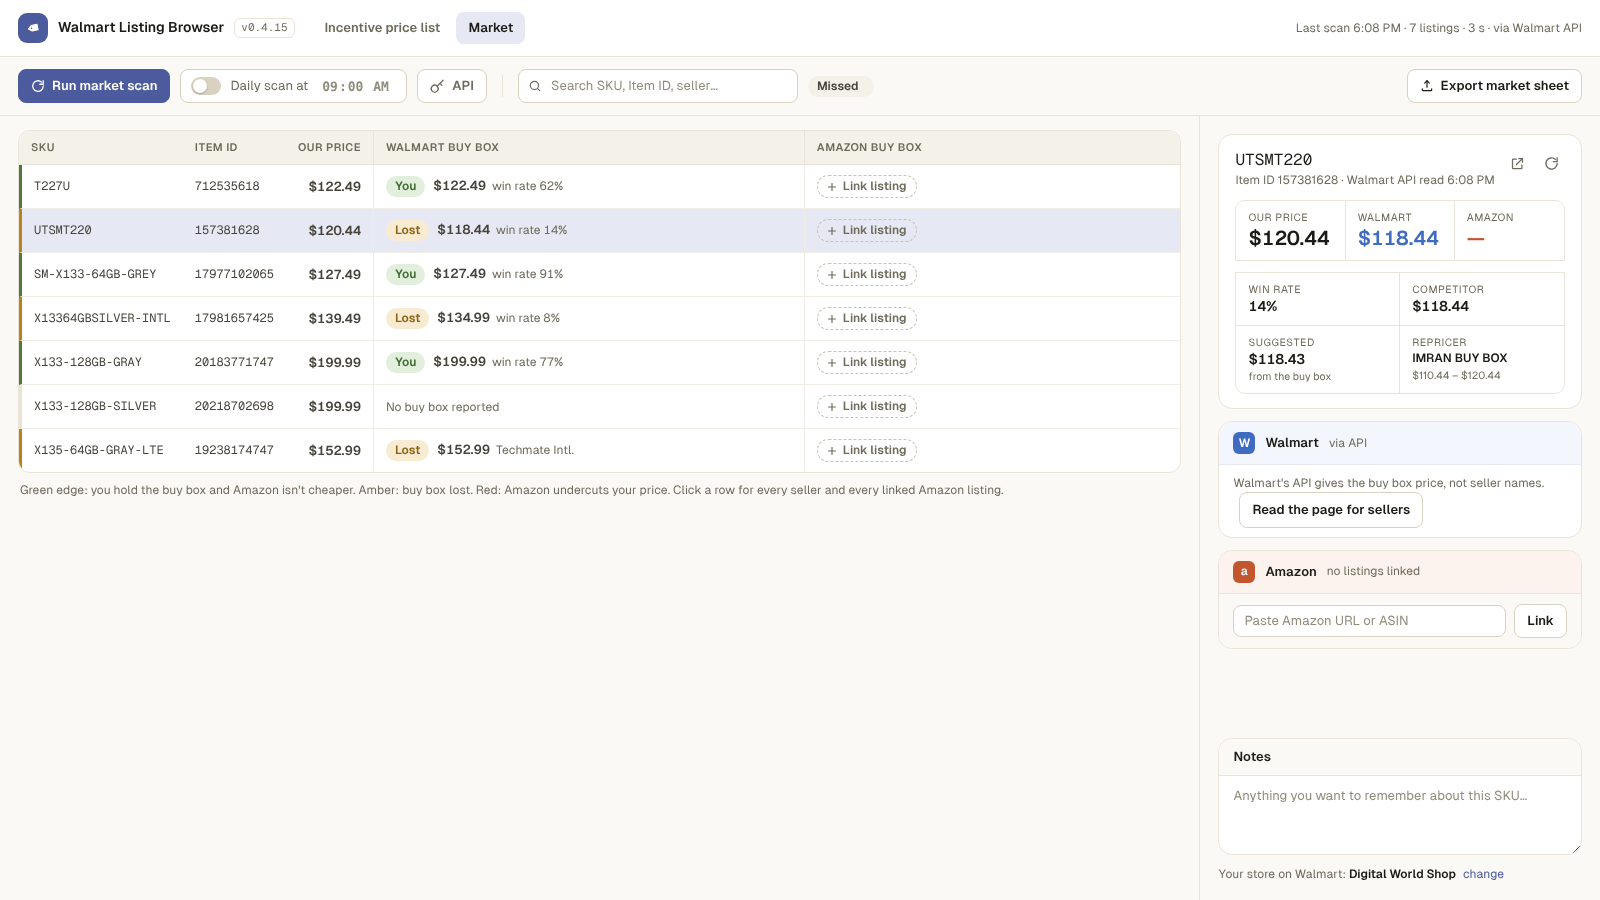
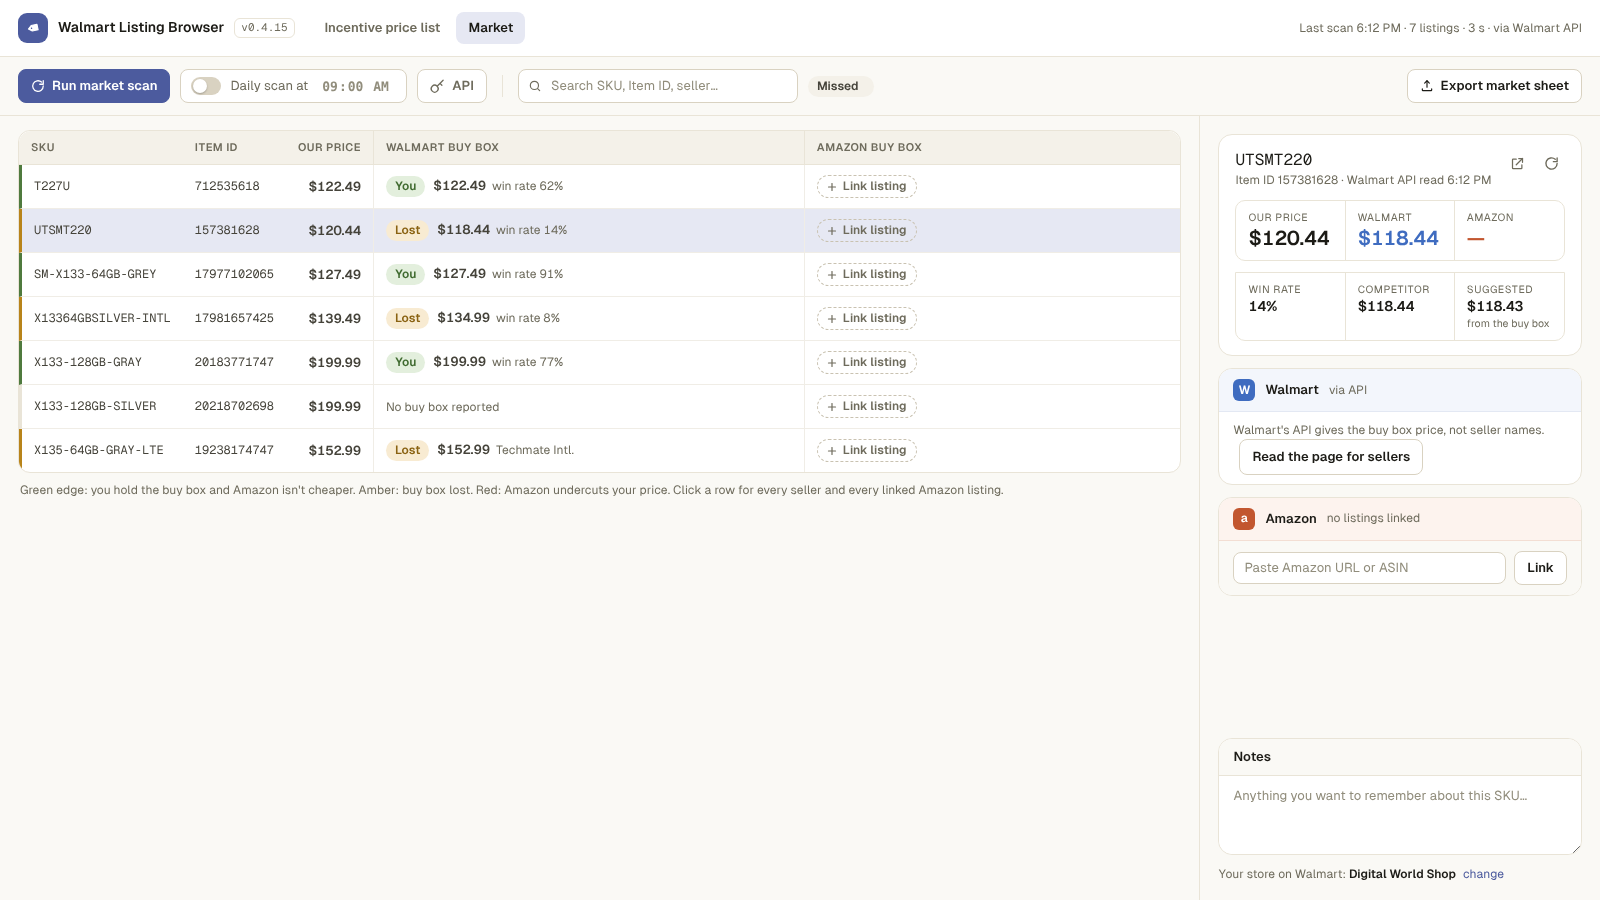
Market tab: plain API keys dialog, buy box data only
The keys dialog is now a small form — Client ID, Client Secret with a
show/hide toggle, a sandbox checkbox, Test / Cancel / Save and a Remove
keys link — with a Connected / Not connected mark in its corner. The
repricer strategy and min–max window no longer show in the panel or the
market export; the API is used for buy box information only (buy box
price, win rate, competitor and suggested prices).

Claude-Session: https://claude.ai/code/session_019Yg2gTStBBCpkj8D7JbpwL

Changed region(s): [[0.75, 0.3111, 0.9688, 0.7156], [0.9062, 0.1867, 0.9375, 0.2178], [0.8125, 0.0311, 0.8438, 0.0622]]

diff --git a/app.css b/app.css
@@ -648,67 +648,45 @@ button.mini { padding: 6px 11px; font-size: 12.5px; min-height: 32px; }
 .m-toolbar #mApiBtn { position: relative; color: #6E6B5C; }
 .m-toolbar #mApiBtn.attention::after { content: ""; position: absolute; top: 6px; right: 6px; width: 6px; height: 6px; border-radius: 50%; background: #B8841A; }
 /* Walmart's own numbers under the three big stats */
-.m-stats.api { margin-top: -1px; grid-template-columns: repeat(2, minmax(0, 1fr)); border-top-left-radius: 0; border-top-right-radius: 0; }
-.m-stats.api > div:nth-child(2n) { border-right: 0; }
-.m-stats.api > div:nth-child(n+3) { border-top: 1px solid #E9E4D7; }
-.m-id .m-stats:not(.api):has(+ .m-stats.api) { border-bottom-left-radius: 0; border-bottom-right-radius: 0; }
+.m-stats.api { margin-top: -1px; grid-template-columns: repeat(3, minmax(0, 1fr)); border-top-left-radius: 0; border-top-right-radius: 0; }
 .m-stats.api b { font-size: 14px; }
 .m-stats.api b.txt { font-size: 12px; line-height: 1.3; white-space: normal; word-break: break-word; }
 .m-stats.api i { font-style: normal; font-size: 10.5px; color: #6E6B5C; white-space: nowrap; overflow: hidden; text-overflow: ellipsis; }
 .m-seller .mini { padding: 3px 9px; min-height: 0; font-size: 11.5px; margin-left: 6px; }
 .m-seller.m-note { flex-wrap: wrap; line-height: 1.5; }
 
-/* API keys dialog */
-.modal.api-card { width: min(620px, 94vw); padding: 0; overflow: hidden; border-radius: 16px; }
-.api-head { display: flex; align-items: center; gap: 14px; padding: 20px 24px 18px; border-bottom: 1px solid #E9E4D7; background: linear-gradient(180deg, #F7F6F1 0%, #FFFFFF 100%); }
-.api-mark { width: 40px; height: 40px; border-radius: 12px; background: #4C5B9E; color: #fff; display: inline-flex; align-items: center; justify-content: center; flex: none; box-shadow: 0 6px 16px rgba(76, 91, 158, .25); }
-.api-head-text { flex: 1; min-width: 0; }
-.api-head h2 { margin: 0; font-size: 17px; line-height: 1.2; }
-.api-sub { font-size: 12.5px; color: #6E6B5C; margin-top: 3px; }
-.api-state { flex: none; display: inline-flex; align-items: center; gap: 6px; padding: 4px 10px; border-radius: 999px; font-size: 11px; font-weight: 600; white-space: nowrap; }
+/* API keys dialog — deliberately plain */
+.modal.api-card { width: min(440px, 94vw); padding: 22px 24px; border-radius: 14px; }
+.api-head { display: flex; align-items: center; justify-content: space-between; gap: 12px; }
+.api-head h2 { margin: 0; font-size: 16px; }
+.api-state { font-size: 11.5px; font-weight: 600; white-space: nowrap; display: inline-flex; align-items: center; gap: 6px; }
 .api-state::before { content: ""; width: 7px; height: 7px; border-radius: 50%; background: currentColor; }
-.api-state.on { background: #E3EFDD; color: #3F6A2F; }
-.api-state.off { background: #F4F1E9; color: #6E6B5C; }
-.api-body { padding: 18px 24px 2px; }
-.api-perks { display: grid; grid-template-columns: repeat(3, minmax(0, 1fr)); gap: 10px; }
-.api-perk { display: flex; gap: 9px; align-items: flex-start; padding: 10px 11px; border: 1px solid #E9E4D7; border-radius: 10px; background: #FAF9F5; min-width: 0; }
-.api-perk svg { flex: none; color: #4C5B9E; margin-top: 1px; }
-.api-perk b { display: block; font-size: 12px; color: #1C1B16; line-height: 1.3; }
-.api-perk span { display: block; font-size: 11px; color: #6E6B5C; margin-top: 2px; line-height: 1.35; }
-.api-msg { margin: 14px 0 0; padding: 9px 12px; border-radius: 8px; font-size: 12.5px; line-height: 1.45; background: #E6E8F3; color: #3D4A85; }
+.api-state.on { color: #3F6A2F; }
+.api-state.off { color: #918D7C; }
+.api-sub { margin: 6px 0 16px; font-size: 12.5px; color: #6E6B5C; line-height: 1.5; }
+.api-sub .linkish { font-size: 12.5px; }
+.api-msg { margin: 0 0 14px; padding: 8px 11px; border-radius: 8px; font-size: 12.5px; line-height: 1.45; background: #E6E8F3; color: #3D4A85; }
 .api-msg.error { background: #FBE8E5; color: #BB3B2E; }
-.api-form { display: grid; grid-template-columns: 1fr 1fr; gap: 14px; margin-top: 18px; }
-.api-field { display: flex; flex-direction: column; gap: 6px; min-width: 0; }
-.api-field.wide { grid-column: 1 / -1; }
-.api-field label { font-size: 11px; font-weight: 600; text-transform: uppercase; letter-spacing: .05em; color: #6E6B5C; }
+.api-field { display: block; margin-bottom: 12px; }
+.api-field > span:first-child { display: block; font-size: 12px; font-weight: 600; color: #45433A; margin-bottom: 5px; }
 .api-field input[type="text"], .api-field input[type="password"] {
   width: 100%; padding: 9px 11px; border: 1px solid #D9D2C1; border-radius: 8px;
-  font-family: "Geist Mono", "JetBrains Mono", Consolas, monospace; font-size: 12.5px;
-  background: #fff; color: #1C1B16; transition: border-color .12s, box-shadow .12s;
+  font-family: "Geist Mono", "JetBrains Mono", Consolas, monospace; font-size: 12.5px; background: #fff; color: #1C1B16;
 }
 .api-field input::placeholder { color: #918D7C; font-family: "Geist", "Inter", system-ui, sans-serif; }
 .api-field input:focus { outline: none; border-color: #4C5B9E; box-shadow: 0 0 0 3px rgba(76, 91, 158, .22); }
-.api-secret { position: relative; }
+.api-secret { position: relative; display: block; }
 .api-secret input { padding-right: 38px; }
 .api-eye { position: absolute; right: 5px; top: 50%; transform: translateY(-50%); border: 0; background: none; color: #918D7C; padding: 5px; border-radius: 6px; cursor: pointer; min-height: 0; display: inline-flex; }
 .api-eye:hover { color: #1C1B16; background: #F4F1E9; }
 .api-eye.on { color: #4C5B9E; }
-.api-env-row { display: flex; align-items: center; gap: 12px; flex-wrap: wrap; }
-.api-seg { display: inline-flex; background: #F4F1E9; border-radius: 9px; padding: 3px; gap: 2px; }
-.api-seg-btn { border: 0; background: transparent; padding: 6px 16px; border-radius: 7px; font: inherit; font-size: 12.5px; font-weight: 600; color: #6E6B5C; cursor: pointer; min-height: 0; }
-.api-seg-btn:hover { color: #1C1B16; background: transparent; }
-.api-seg-btn.active { background: #fff; color: #1C1B16; box-shadow: 0 1px 2px rgba(0, 0, 0, .1); }
-.api-env-note { font-size: 12px; color: #6E6B5C; }
-.api-test-row { display: flex; align-items: center; gap: 12px; margin-top: 18px; }
-.api-test-row button { display: inline-flex; align-items: center; gap: 7px; padding: 7px 13px; font-size: 12.5px; flex: none; }
-.api-test-state { font-size: 12.5px; color: #6E6B5C; min-width: 0; }
+.api-sandbox { display: flex; align-items: center; gap: 7px; font-size: 12.5px; color: #6E6B5C; cursor: pointer; margin: 2px 0 0; }
+.api-sandbox input { accent-color: #4C5B9E; margin: 0; }
+.api-actions { display: flex; align-items: center; gap: 8px; margin-top: 20px; }
+.api-actions button { padding: 8px 14px; }
+.api-actions .linkish { padding: 0; margin-left: auto; font-size: 12px; color: #BB3B2E; }
+.api-actions .linkish + button { margin-left: 4px; }
+.api-actions #apiRemove.hidden + #apiCancel { margin-left: auto; }
+.api-test-state { font-size: 12px; color: #6E6B5C; min-width: 0; overflow: hidden; text-overflow: ellipsis; white-space: nowrap; }
 .api-test-state.ok { color: #3F6A2F; font-weight: 600; }
-.api-test-state.error { color: #BB3B2E; font-weight: 600; }
-.api-foot { display: flex; align-items: center; gap: 16px; padding: 16px 24px 18px; margin-top: 18px; border-top: 1px solid #E9E4D7; background: #FAF9F5; }
-.api-foot-text { flex: 1; min-width: 0; display: flex; gap: 8px; align-items: flex-start; font-size: 11.5px; color: #6E6B5C; line-height: 1.5; }
-.api-foot-text svg { flex: none; margin-top: 3px; }
-.api-foot-text .linkish { font-size: 11.5px; }
-.api-last { display: block; margin-top: 2px; color: #918D7C; }
-.api-last:empty { display: none; }
-.api-actions { display: flex; gap: 8px; flex: none; }
-.api-actions button { padding: 8px 16px; }
+.api-test-state.error { color: #BB3B2E; font-weight: 600; white-space: normal; }

diff --git a/index.html b/index.html
@@ -350,81 +350,31 @@
   <div id="apiModal" class="modal-overlay hidden">
     <div class="modal api-card" role="dialog" aria-labelledby="apiTitle">
       <div class="api-head">
-        <div class="api-mark" aria-hidden="true">
-          <svg width="20" height="20" viewBox="0 0 24 24" fill="none" stroke="currentColor" stroke-width="2" stroke-linecap="round" stroke-linejoin="round"><path d="M21 2l-2 2m-7.6 7.6a5.5 5.5 0 1 1-7.8 7.8 5.5 5.5 0 0 1 7.8-7.8zm0 0L19 4m-3 3l3 3"/></svg>
-        </div>
-        <div class="api-head-text">
-          <h2 id="apiTitle">Walmart seller API</h2>
-          <div class="api-sub">The market scan pulls every buy box straight from Walmart.</div>
-        </div>
+        <h2 id="apiTitle">Walmart API keys</h2>
         <span id="apiState" class="api-state off">Not connected</span>
       </div>
-
-      <div class="api-body">
-        <div class="api-perks">
-          <div class="api-perk">
-            <svg width="16" height="16" viewBox="0 0 24 24" fill="none" stroke="currentColor" stroke-width="2" stroke-linecap="round" stroke-linejoin="round"><path d="M13 2 4 14h7l-1 8 9-12h-7z"/></svg>
-            <div><b>One call, every SKU</b><span>Buy box prices in seconds, no page reads</span></div>
-          </div>
-          <div class="api-perk">
-            <svg width="16" height="16" viewBox="0 0 24 24" fill="none" stroke="currentColor" stroke-width="2" stroke-linecap="round" stroke-linejoin="round"><path d="M3 17l6-6 4 4 8-8"/><path d="M14 7h7v7"/></svg>
-            <div><b>Walmart's own numbers</b><span>Win rate, competitor and suggested prices</span></div>
-          </div>
-          <div class="api-perk">
-            <svg width="16" height="16" viewBox="0 0 24 24" fill="none" stroke="currentColor" stroke-width="2" stroke-linecap="round" stroke-linejoin="round"><path d="M20.6 13.4 13.4 20.6a2 2 0 0 1-2.8 0L3 13V3h10l7.6 7.6a2 2 0 0 1 0 2.8z"/><circle cx="7.5" cy="7.5" r="1.5"/></svg>
-            <div><b>Repricer at a glance</b><span>Strategy and min–max window per SKU</span></div>
-          </div>
-        </div>
-
-        <p id="apiMsg" class="api-msg hidden"></p>
-
-        <div class="api-form">
-          <div class="api-field">
-            <label for="apiClientId">Client ID</label>
-            <input id="apiClientId" type="text" autocomplete="off" spellcheck="false" placeholder="e.g. 7f1c2a9e-…" />
-          </div>
-          <div class="api-field">
-            <label for="apiSecret">Client Secret</label>
-            <div class="api-secret">
-              <input id="apiSecret" type="password" autocomplete="off" spellcheck="false" placeholder="Client Secret" />
-              <button type="button" id="apiReveal" class="api-eye" title="Show the secret" aria-label="Show the secret">
-                <svg width="15" height="15" viewBox="0 0 24 24" fill="none" stroke="currentColor" stroke-width="2" stroke-linecap="round" stroke-linejoin="round"><path d="M1 12s4-7 11-7 11 7 11 7-4 7-11 7S1 12 1 12z"/><circle cx="12" cy="12" r="3"/></svg>
-              </button>
-            </div>
-          </div>
-          <div class="api-field wide">
-            <label id="apiEnvLabel">Environment</label>
-            <div class="api-env-row">
-              <div class="api-seg" role="radiogroup" aria-labelledby="apiEnvLabel">
-                <button type="button" class="api-seg-btn active" data-env="production" role="radio" aria-checked="true">Production</button>
-                <button type="button" class="api-seg-btn" data-env="sandbox" role="radio" aria-checked="false">Sandbox</button>
-              </div>
-              <span id="apiEnvNote" class="api-env-note">Your live store on walmart.com</span>
-            </div>
-          </div>
-        </div>
-
-        <div class="api-test-row">
-          <button id="apiTest" type="button">
-            <svg width="14" height="14" viewBox="0 0 24 24" fill="none" stroke="currentColor" stroke-width="2.2" stroke-linecap="round" stroke-linejoin="round"><path d="M5 12l5 5L20 7"/></svg>
-            Test connection
+      <p class="api-sub">The market scan then pulls every buy box straight from Walmart. <button id="apiKeysLink" class="linkish" type="button">Where to get keys</button></p>
+      <p id="apiMsg" class="api-msg hidden"></p>
+      <label class="api-field">
+        <span>Client ID</span>
+        <input id="apiClientId" type="text" autocomplete="off" spellcheck="false" />
+      </label>
+      <label class="api-field">
+        <span>Client Secret</span>
+        <span class="api-secret">
+          <input id="apiSecret" type="password" autocomplete="off" spellcheck="false" />
+          <button type="button" id="apiReveal" class="api-eye" title="Show the secret" aria-label="Show the secret">
+            <svg width="15" height="15" viewBox="0 0 24 24" fill="none" stroke="currentColor" stroke-width="2" stroke-linecap="round" stroke-linejoin="round"><path d="M1 12s4-7 11-7 11 7 11 7-4 7-11 7S1 12 1 12z"/><circle cx="12" cy="12" r="3"/></svg>
           </button>
-          <span id="apiTestState" class="api-test-state"></span>
-        </div>
-      </div>
-
-      <div class="api-foot">
-        <div class="api-foot-text">
-          <svg width="14" height="14" viewBox="0 0 24 24" fill="none" stroke="currentColor" stroke-width="2" stroke-linecap="round" stroke-linejoin="round" aria-hidden="true"><rect x="3" y="11" width="18" height="11" rx="2"/><path d="M7 11V7a5 5 0 0 1 10 0v4"/></svg>
-          <span>Stored encrypted on this computer and sent only to Walmart. Get keys at
-            <button id="apiKeysLink" class="linkish" type="button">Developer Portal → API keys</button>
-            · <button id="apiDocsLink" class="linkish" type="button">API reference</button><span id="apiLast" class="api-last"></span></span>
-        </div>
-        <div class="api-actions">
-          <button id="apiRemove" class="danger hidden">Remove keys</button>
-          <button id="apiCancel">Cancel</button>
-          <button id="apiSave" class="primary">Save</button>
-        </div>
+        </span>
+      </label>
+      <label class="api-sandbox"><input id="apiSandbox" type="checkbox" /> Use Walmart's sandbox (test) environment</label>
+      <div class="api-actions">
+        <button id="apiTest" type="button">Test</button>
+        <span id="apiTestState" class="api-test-state"></span>
+        <button id="apiRemove" class="linkish hidden" type="button">Remove keys</button>
+        <button id="apiCancel">Cancel</button>
+        <button id="apiSave" class="primary">Save</button>
       </div>
     </div>
   </div>

diff --git a/market.js b/market.js
@@ -242,7 +242,6 @@ function renderPanel() {
         <div><span>Win rate</span><b>${api.winRate == null ? "—" : `${Math.round(api.winRate * 10) / 10}%`}</b></div>
         <div><span>Competitor</span><b>${fmt(api.competitorPrice)}</b></div>
         <div title="${api.suggestedDriver ? esc(DRIVER[api.suggestedDriver] || api.suggestedDriver) : ""}"><span>Suggested</span><b>${fmt(api.suggestedPrice)}</b>${api.suggestedDriver ? `<i>${esc(DRIVER[api.suggestedDriver] || "")}</i>` : ""}</div>
-        <div title="${api.repricerStrategy ? esc(`${api.repricerStrategy}${api.repricerStatus ? " · " + api.repricerStatus : ""}`) : "No repricer strategy assigned in Seller Center"}"><span>Repricer</span><b class="txt">${api.repricerStrategy ? esc(api.repricerStrategy) : "—"}</b>${api.repricerMin != null || api.repricerMax != null ? `<i>${fmt(api.repricerMin)} – ${fmt(api.repricerMax)}</i>` : ""}</div>
       </div>` : "";
   // one seller listed although Walmart says there are more: say why
   const sellersNote = f.bb && f.sellers.length <= 1 && (f.bb.others > 0 || f.bb.offersWhy)
@@ -571,22 +570,14 @@ async function refreshApiSettings() {
   try { apiSettings = await window.api.getApiSettings(); } catch { /* keep defaults */ }
   renderApiBtn();
 }
-const ENV_NOTE = { production: "Your live store on walmart.com", sandbox: "Walmart's test environment — nothing real is touched" };
-function setApiEnv(env) {
-  document.querySelectorAll(".api-seg-btn").forEach((b) => {
-    const on = b.dataset.env === env;
-    b.classList.toggle("active", on);
-    b.setAttribute("aria-checked", on ? "true" : "false");
-  });
-  $("apiEnvNote").textContent = ENV_NOTE[env] || "";
-}
-const apiEnvValue = () => document.querySelector(".api-seg-btn.active")?.dataset.env || "production";
+const setApiEnv = (env) => { $("apiSandbox").checked = env === "sandbox"; };
+const apiEnvValue = () => ($("apiSandbox").checked ? "sandbox" : "production");
 function openApiModal(message, isError) {
   const msg = $("apiMsg");
   msg.textContent = message || "";
   msg.className = "api-msg" + (isError ? " error" : "") + (message ? "" : " hidden");
   const state = $("apiState");
-  state.textContent = apiReady() ? `Connected · ${apiSettings.env === "sandbox" ? "sandbox" : "production"}` : "Not connected";
+  state.textContent = apiReady() ? (apiSettings.env === "sandbox" ? "Connected · sandbox" : "Connected") : "Not connected";
   state.className = "api-state " + (apiReady() ? "on" : "off");
   $("apiClientId").value = apiSettings.clientId || "";
   $("apiSecret").value = "";
@@ -597,7 +588,6 @@ function openApiModal(message, isError) {
   $("apiTestState").textContent = "";
   $("apiTestState").className = "api-test-state";
   $("apiRemove").classList.toggle("hidden", !(apiSettings.clientId || apiSettings.hasSecret));
-  $("apiLast").textContent = apiSettings.lastScan ? `Last API scan ${when(apiSettings.lastScan)}` : "";
   window.api.hideListing();
   hideAmazonPage();
   $("apiModal").classList.remove("hidden");
@@ -605,7 +595,7 @@ function openApiModal(message, isError) {
 }
 function closeApiModal() { $("apiModal").classList.add("hidden"); }
 const apiFormValues = () => ({ clientId: $("apiClientId").value.trim(), clientSecret: $("apiSecret").value.trim(), env: apiEnvValue() });
-document.querySelectorAll(".api-seg-btn").forEach((b) => b.addEventListener("click", () => setApiEnv(b.dataset.env)));
+
 $("apiReveal").addEventListener("click", () => {
   const f = $("apiSecret");
   const show = f.type === "password";
@@ -619,7 +609,6 @@ $("apiCancel").addEventListener("click", closeApiModal);
 $("apiModal").addEventListener("click", (e) => { if (e.target.id === "apiModal") closeApiModal(); });
 $("apiModal").addEventListener("keydown", (e) => { e.stopPropagation(); if (e.key === "Escape") closeApiModal(); });
 $("apiKeysLink").addEventListener("click", () => window.api.openApiKeys());
-$("apiDocsLink").addEventListener("click", () => window.api.openApiDocs());
 $("apiTest").addEventListener("click", async () => {
   const v = apiFormValues();
   if (!v.clientId || (!v.clientSecret && !apiSettings.hasSecret)) {
@@ -724,15 +713,15 @@ function marketRows() {
     const a = apiOf(f.it) || {};
     return [f.it.sku, f.it.itemId, f.during > 0 ? f.during : "", f.bb ? f.bb.price : "", f.bb ? (f.mine ? myStore : f.bb.seller || (f.lost ? "another seller" : "")) : "",
       f.wmLow ?? "", f.sellers.length || "", f.low ?? "", amzList(f.it).map((a) => a.asin || "typed").join(" "), gap, f.bb?.at ? new Date(f.bb.at).toLocaleString() : "",
-      a.winRate ?? "", a.competitorPrice ?? "", a.suggestedPrice ?? "", a.repricerStrategy ?? "", a.repricerMin ?? "", a.repricerMax ?? ""];
+      a.winRate ?? "", a.competitorPrice ?? "", a.suggestedPrice ?? ""];
   });
 }
 $("mExportBtn").addEventListener("click", async () => {
   const rows = marketRows();
   if (!rows.length) { alert("Nothing to export yet."); return; }
   const head = ["SKU", "Item ID", "Our Price", "Walmart Buy Box", "Buy Box Seller", "Walmart Lowest", "Walmart Sellers", "Amazon Buy Box", "Amazon Listings", "Gap vs Amazon", "Checked",
-    "Win Rate %", "Competitor Price", "Suggested Price", "Repricer Strategy", "Repricer Min", "Repricer Max"];
-  const res = await window.api.exportSheet({ head, rows, name: "market", widths: [26, 14, 12, 16, 22, 14, 14, 16, 30, 14, 20, 12, 14, 14, 24, 12, 12] });
+    "Win Rate %", "Competitor Price", "Suggested Price"];
+  const res = await window.api.exportSheet({ head, rows, name: "market", widths: [26, 14, 12, 16, 22, 14, 14, 16, 30, 14, 20, 12, 14, 14] });
   finishExport(res, rows.length);
 });
 

diff --git a/README.md b/README.md
@@ -22,7 +22,7 @@ Keep an incentive price sheet on the left, and click any row to see its **live w
 - **Import** — pull rows in from `.xlsx` / `.csv` / `.tsv`, or paste straight from Google Sheets with Ctrl+V; optional per-row commission columns are picked up by header name.
 - **Auto-update** — the app checks the latest GitHub Release on launch (and every few hours); click the version tag in the header to check by hand (a small popover, the page never moves). Windows downloads and installs the new version in-app. macOS downloads the release's `.zip` build itself and swaps the app bundle on restart, so there is no Gatekeeper / Privacy & Security step; if the app runs from the mounted `.dmg` it offers the `.dmg` download instead.
 - **Export** — the regular sheet (live formulas), Walmart's Repricer Bulk Upload file, or the Account Manager's "Item & Partner Level Comm Break" template — their exact file, filled with one row per Item ID (Base ID = Item ID, partner ID, commission rates, prices, incentive dates) and revealed in Finder / Explorer ready to email.
-- **Market tab** — Walmart buy box and Amazon buy box side by side for every SKU. *Run market scan* pulls every SKU's Walmart buy box from the **Walmart Marketplace API** (Pricing Insights — one batched call, seconds for the whole list, plus win rate, competitor and suggested prices, and the repricer strategy each SKU is on) once your seller API keys are saved behind the **API** button; without keys, or for SKUs the API doesn't know, it reads the listing's Walmart page instead (buy box, seller, every other seller's price). Seller names aren't in the API, so the panel offers *Read the page for sellers* per SKU. Every Amazon listing linked to a row is read page by page as before, and the scan can run by itself once a day at a set time. Link any number of Amazon listings per SKU by URL or ASIN, or type a price in by hand. Click a row for all sellers and listings; when the scan finishes, a pop-up lists the SKUs Amazon undercuts, biggest gap first, ready to export as CSV or Excel. The Incentive price list tab holds no scanning any more — it is just the price sheet.
+- **Market tab** — Walmart buy box and Amazon buy box side by side for every SKU. *Run market scan* pulls every SKU's Walmart buy box from the **Walmart Marketplace API** (Pricing Insights — one batched call, seconds for the whole list, plus win rate, competitor and suggested prices) once your seller API keys are saved behind the **API** button; without keys, or for SKUs the API doesn't know, it reads the listing's Walmart page instead (buy box, seller, every other seller's price). Seller names aren't in the API, so the panel offers *Read the page for sellers* per SKU. Every Amazon listing linked to a row is read page by page as before, and the scan can run by itself once a day at a set time. Link any number of Amazon listings per SKU by URL or ASIN, or type a price in by hand. Click a row for all sellers and listings; when the scan finishes, a pop-up lists the SKUs Amazon undercuts, biggest gap first, ready to export as CSV or Excel. The Incentive price list tab holds no scanning any more — it is just the price sheet.
 - **Auto-computed columns** — `$ Change` and `% Change` recompute from Before / During prices.
 - **Local-first** — everything is stored in a local JSON file; no accounts, no server.
 
